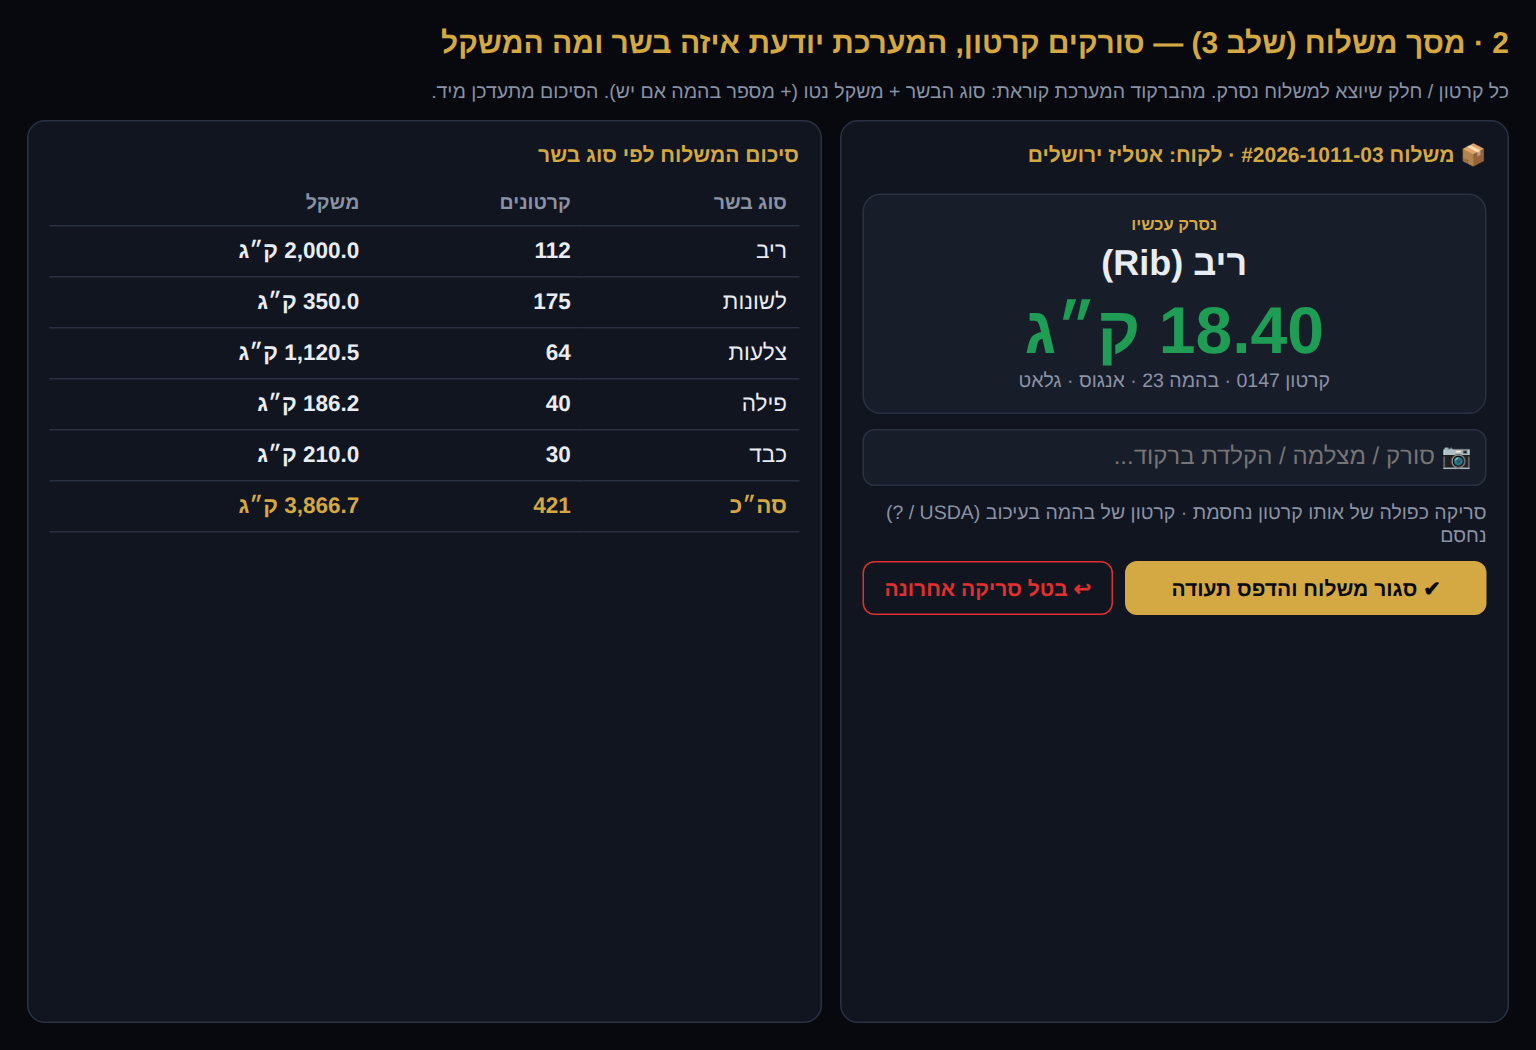
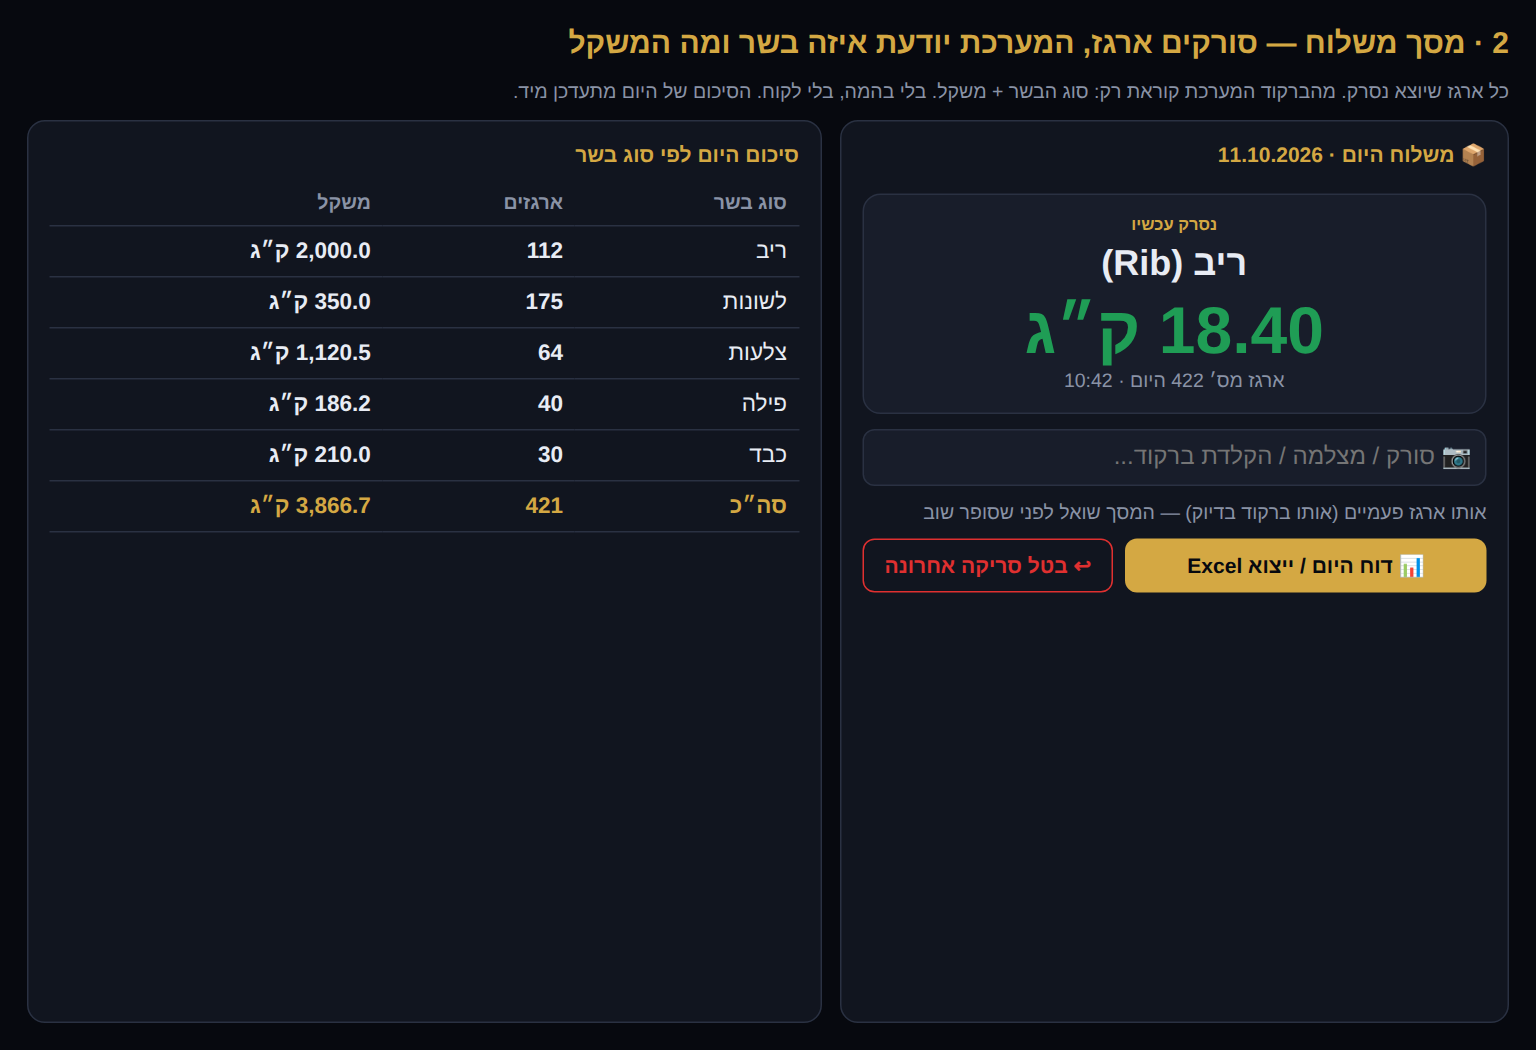
Design: shipping by box — cut + weight only, barcode check tool
Claude-Session: https://claude.ai/code/session_01P3LA21BeB1Ff4EJ5mvRd45

diff --git a/glatttrack/design-breeds-shipping/mockup.html b/glatttrack/design-breeds-shipping/mockup.html
@@ -43,24 +43,24 @@ table{width:100%;border-collapse:collapse;font-size:15px} td,th{padding:8px;bord
 </div>
 
 <div class="pg" id="p2">
- <h1>2 · מסך משלוח (שלב 3) — סורקים קרטון, המערכת יודעת איזה בשר ומה המשקל</h1>
- <div class="sub">כל קרטון / חלק שיוצא למשלוח נסרק. מהברקוד המערכת קוראת: סוג הבשר + משקל נטו (+ מספר בהמה אם יש). הסיכום מתעדכן מיד.</div>
+ <h1>2 · מסך משלוח — סורקים ארגז, המערכת יודעת איזה בשר ומה המשקל</h1>
+ <div class="sub">כל ארגז שיוצא נסרק. מהברקוד המערכת קוראת רק: סוג הבשר + משקל. בלי בהמה, בלי לקוח. הסיכום של היום מתעדכן מיד.</div>
  <div style="display:flex;gap:12px;flex:1">
   <div class="card" style="flex:1;display:flex;flex-direction:column;gap:10px">
-   <div class="sec">📦 משלוח #2026-1011-03 · לקוח: אטליז ירושלים</div>
+   <div class="sec">📦 משלוח היום · 11.10.2026</div>
    <div class="card" style="background:var(--panel2);text-align:center">
      <div class="tag">נסרק עכשיו</div>
      <div style="font-size:24px;font-weight:800;margin:6px 0">ריב (Rib)</div>
      <div class="big ok num">18.40 ק״ג</div>
-     <div class="sub">קרטון 0147 · בהמה 23 · אנגוס · גלאט</div>
+     <div class="sub">ארגז מס׳ 422 היום · 10:42</div>
    </div>
    <input class="in" placeholder="📷 סורק / מצלמה / הקלדת ברקוד..." style="font-size:16px">
-   <div class="sub">סריקה כפולה של אותו קרטון נחסמת · קרטון של בהמה בעיכוב (USDA / ?) נחסם</div>
-   <div style="display:flex;gap:8px"><button class="btn" style="flex:1">✔ סגור משלוח והדפס תעודה</button><button class="btn" style="background:transparent;color:var(--red);border:1px solid var(--red)">↩ בטל סריקה אחרונה</button></div>
+   <div class="sub">אותו ארגז פעמיים (אותו ברקוד בדיוק) — המסך שואל לפני שסופר שוב</div>
+   <div style="display:flex;gap:8px"><button class="btn" style="flex:1">📊 דוח היום / ייצוא Excel</button><button class="btn" style="background:transparent;color:var(--red);border:1px solid var(--red)">↩ בטל סריקה אחרונה</button></div>
   </div>
   <div class="card" style="flex:1.2">
-   <div class="sec">סיכום המשלוח לפי סוג בשר</div>
-   <table><tr><th>סוג בשר</th><th>קרטונים</th><th>משקל</th></tr>
+   <div class="sec">סיכום היום לפי סוג בשר</div>
+   <table><tr><th>סוג בשר</th><th>ארגזים</th><th>משקל</th></tr>
    <tr><td>ריב</td><td class="num">112</td><td class="num">2,000.0 ק״ג</td></tr>
    <tr><td>לשונות</td><td class="num">175</td><td class="num">350.0 ק״ג</td></tr>
    <tr><td>צלעות</td><td class="num">64</td><td class="num">1,120.5 ק״ג</td></tr>
@@ -72,12 +72,12 @@ table{width:100%;border-collapse:collapse;font-size:15px} td,th{padding:8px;bord
 </div>
 
 <div class="pg" id="p3">
- <h1>3 · הגדרות ← משלוח: רשימת סוגי הבשר והברקוד</h1>
- <div class="sub">המפעל מגדיר את סוגי הבשר ואיך לקרוא את הברקוד של הקרטון (תווית מחדר הפירוק).</div>
+ <h1>3 · הגדרות ← משלוח: סוגי הבשר + בדיקת הברקוד של הארגז</h1>
+ <div class="sub">המפעל מגדיר את סוגי הבשר ובודק מה כתוב בברקוד של הארגז (תווית מחדר הפירוק).</div>
  <div style="display:flex;gap:12px;flex:1">
   <div class="card" style="flex:1">
    <div class="sec">🥩 סוגי בשר</div>
-   <table><tr><th>שם</th><th>קוד בברקוד</th><th>English</th></tr>
+   <table><tr><th>שם</th><th>קוד מוצר בברקוד</th><th>English</th></tr>
    <tr><td>ריב</td><td class="num">1001</td><td>Rib</td></tr>
    <tr><td>לשונות</td><td class="num">2001</td><td>Tongue</td></tr>
    <tr><td>צלעות</td><td class="num">1002</td><td>Short ribs</td></tr>
@@ -86,14 +86,15 @@ table{width:100%;border-collapse:collapse;font-size:15px} td,th{padding:8px;bord
    <div class="sub" style="margin-top:8px">החלקים הקטנים שכבר מוגדרים (לשון, לחי, כבד...) נכנסים לרשימה אוטומטית.</div>
   </div>
   <div class="card" style="flex:1">
-   <div class="sec">🏷 איך לקרוא את הברקוד של הקרטון</div>
-   <div class="row"><span>◉ תקן GS1-128 (קוד מוצר + משקל נטו)</span><span class="pill">הכי נפוץ</span></div>
-   <div class="row"><span>○ ברקוד של GlattTrack (מדפיסים מכאן)</span><span class="pill">BH|C:1001|W:18.40|N:23</span></div>
-   <div class="row"><span>○ קוד מוצר בלבד → משקל מהמאזניים</span><span class="pill">מאזניים מחוברים</span></div>
-   <div class="sec" style="margin-top:14px">דוחות</div>
-   <div class="row"><span>יום / שבוע / חודש: משקל לפי סוג בשר</span><span class="ok">✓</span></div>
-   <div class="row"><span>לפי לקוח · לפי זן · לפי משק</span><span class="ok">✓</span></div>
-   <div class="row"><span>ייצוא Excel / CSV</span><span class="ok">✓</span></div>
+   <div class="sec">🔍 בדיקת ברקוד — סורקים ארגז אמיתי ורואים מה כתוב בו</div>
+   <input dir="ltr" class="in" style="width:100%;box-sizing:border-box;text-align:left" value="(01)07290012345678(3102)001840(13)261011">
+   <div class="row"><span>מה כתוב (גולמי)</span><span class="pill num">0107290012345678310200184013261011</span></div>
+   <div class="row"><span>תקן שזוהה</span><span class="ok">GS1-128</span></div>
+   <div class="row"><span>קוד מוצר</span><span class="num">07290012345678</span></div>
+   <div class="row"><span>משקל נטו</span><span class="ok num">18.40 ק״ג</span></div>
+   <div class="row"><span>תאריך אריזה</span><span class="num">11.10.2026</span></div>
+   <div class="row"><span>סוג בשר</span><span><select class="in"><option>ריב ← שייך לקוד הזה</option></select></span></div>
+   <div class="sub" style="margin-top:8px">אם הברקוד לא בתקן — המסך מציג את מה שנקרא, ומסמנים איפה הקוד ואיפה המשקל (או שהמשקל מגיע מהמאזניים).</div>
   </div>
  </div>
 </div>
